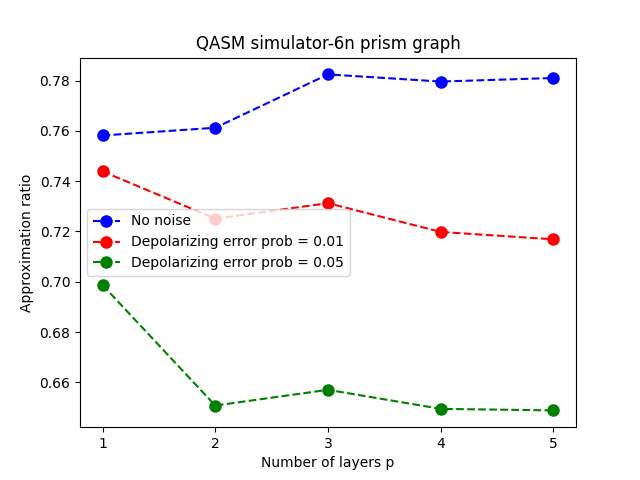
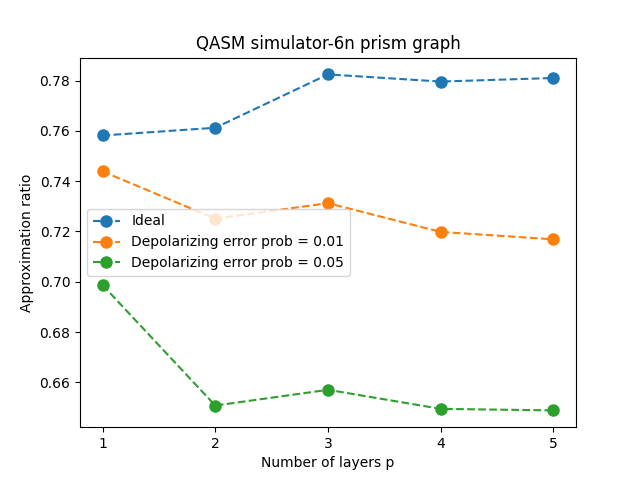
Layer by layer optimization working :)

diff --git a/plots.py b/plots.py
@@ -6,12 +6,16 @@ approx_ratio = [0.924825, 0.9994, 0.999375, 0.989525, 0.991425] # No noise
 # [2.01177997 2.33217192 0.83523549 5.95600807 2.72784627] [1.65157151 6.27857961 1.05144207 3.10821409 1.4194117 ]
 approx_ratio_noisy2 = [0.904375, 0.9153, 0.8903, 0.872525, 0.867025] # Depolarizing error 0.01
 approx_ratio_noisy = [0.837725, 0.77485, 0.784075, 0.7585, 0.757125] # Depolarizing error 0.05
-approx_ratio_fakevigo = [0.889739990234375, 0.87359619140625, 0.8653564453125]
+approx_ratio_fakevigo = [0.889739990234375, 0.87359619140625, 0.8653564453125, 0.84576416015625,0.845123291015625]
+layer_by_layer_fakevigo = [0.89141845703125, 0.830657958984375, 0.748077392578125, 0.805877685546875, 0.784576416015625]
+layer_by_layer_ideal =[0.926575, 0.9343, 0.78225, 0.9582, 0.957125]
 
-plt.plot(range(1,len(approx_ratio)+1), approx_ratio, 'o--', markersize=8, label='Ideal')
-plt.plot(range(1,len(approx_ratio_noisy2)+1), approx_ratio_noisy2, 'o--', markersize=8, label='Depolarizing error prob = 0.01')
-plt.plot(range(1,len(approx_ratio_noisy)+1), approx_ratio_noisy, 'o--', markersize=8, label='Depolarizing error prob = 0.05')
-plt.plot(range(1,len(approx_ratio_fakevigo)+1), approx_ratio_fakevigo, 'o--', markersize=8, label='FakeVigo simulator')
+plt.plot(range(1,len(approx_ratio)+1), approx_ratio, 'o--', markersize=8, label='QASM ideal')
+#plt.plot(range(1,len(approx_ratio_noisy2)+1), approx_ratio_noisy2, 'o--', markersize=8, label='Depolarizing error prob = 0.01')
+#plt.plot(range(1,len(approx_ratio_noisy)+1), approx_ratio_noisy, 'o--', markersize=8, label='Depolarizing error prob = 0.05')
+plt.plot(range(1,len(approx_ratio_fakevigo)+1), approx_ratio_fakevigo, 'o--', markersize=8, label='FakeVigo')
+plt.plot(range(1,len(layer_by_layer_fakevigo)+1), layer_by_layer_fakevigo, 'o--', markersize=8, label='FakeVigo- layer by layer')
+plt.plot(range(1,len(layer_by_layer_ideal)+1), layer_by_layer_ideal, 'o--', markersize=8, label='QASM ideal- layer by layer')
 
 plt.xticks(range(1,len(approx_ratio)+1))
 plt.xlabel('Number of layers p')
@@ -62,14 +66,17 @@ plt.savefig('Erdos graph with qasm')
 plt.show()
 
 
-# Number of calls to the circuit when running it in fakevigo 
-calls = [20,72,275,715]
+# Number of iterations of the optimizer to the circuit when running it in fakevigo 
+calls = [20,72,275,523,852] # maxiter = 999
+calls_layer_by_layer = [27,24,21,28,17]
 plt.close
 plt.plot(range(1,len(calls)+1), calls, 'o--', markersize=8)
+plt.plot(range(1,len(calls_layer_by_layer)+1), calls_layer_by_layer, 'o--', markersize=8)
 plt.xticks(range(1,len(approx_ratio)+1))
 plt.xlabel('Number of layers p')
-plt.ylabel('Calls')
+plt.ylabel('Iterations')
 plt.legend()
-plt.title('Calls to the quantum circuit in FakeVigo')
+plt.title('Iterations of the optimizer in FakeVigo')
 plt.savefig('Calls')
 plt.show()
+

diff --git a/layer_by_layer_qasm_simulation.py b/layer_by_layer_qasm_simulation.py
@@ -23,22 +23,22 @@ from scipy.optimize import minimize, differential_evolution
 from qiskit import Aer
 from qiskit.providers.aer.noise import NoiseModel, QuantumError, thermal_relaxation_error, depolarizing_error
 from qiskit.test.mock import FakeVigo
- 
+
 # Choose your fighter
 G = graphs.fournodes_3reg_graph()
 
 # Choose the arena
-#backend = QasmSimulator()
-backend = QasmSimulator.from_backend(FakeVigo())
-shots = 8192
+backend = QasmSimulator()
+#backend = QasmSimulator.from_backend(FakeVigo())
+shots = 10000
 
 # Choose the number of rounds
 p = 1
 
 # In case we don't want a noise model:
 noise_model = None
-
-prev_gamma = []]
+ 
+prev_gamma = []
 prev_beta = []
 cost_list = []
 approx_ratio_list = []
@@ -61,10 +61,9 @@ for p in range(1,p_max + 1):
     # max_expect_value = minimize(expect_value_function, x0=np.random.randn(2),args=(backend,G,shots,p,None), bounds = bounds, options={'disp': True}, method = 'SLQP')
 
     # Differential evolution optimizer:
-    max_expect_value = differential_evolution(expect_value_function,args=(prev_gamma,prev_beta,backend,G,shots,p,noise_model), bounds=bounds, disp = True)
-
-    optimal_gamma, optimal_beta = max_expect_value['x'][:p], max_expect_value['x'][p:]
-    counts = execute_circuit(G, optimal_gamma, optimal_beta, backend, shots, p, noise_model)
+    max_expect_value = differential_evolution(expect_value_function,args=(prev_gamma,prev_beta,backend,G,shots,p,noise_model), bounds=bounds, maxiter = 10000, disp = True)
+    optimal_gamma, optimal_beta = max_expect_value['x'][0], max_expect_value['x'][1]
+    counts = execute_circuit(G, optimal_gamma, optimal_beta, prev_gamma, prev_beta, backend, shots, p, noise_model)
     solution, solution_cost = get_solution(counts, G)
     avr_cost = -max_expect_value.get('fun')
     approx_ratio = avr_cost/solution_cost # Careful! This approximation ratio is computed assuming the algorithm is able to find
@@ -87,7 +86,7 @@ for p in range(1,p_max + 1):
 
 
 #np.save('saved_cost_list', cost_list)
-plt.plot(range(1,p_max), cost_list)
+plt.plot(range(1,p_max+1), cost_list)
 plt.show()
 #plt.savefig('Cost list')
 

diff --git a/qasm_simulation.py b/qasm_simulation.py
@@ -23,16 +23,14 @@ from scipy.optimize import minimize, differential_evolution
 from qiskit import Aer
 from qiskit.providers.aer.noise import NoiseModel, QuantumError, thermal_relaxation_error, depolarizing_error
 from qiskit.test.mock import FakeVigo
- 
+
 # Choose your fighter
 G = graphs.fournodes_3reg_graph()
 
 # Choose the arena
-#backend = QasmSimulator()
+# backend = QasmSimulator()
 backend = QasmSimulator.from_backend(FakeVigo())
 shots = 8192
-
-number_of_calls = 0
 
 # Choose the number of rounds
 p = 1
@@ -43,7 +41,7 @@ noise_model = None
 cost_list = []
 approx_ratio_list = []
 p_max = 5
-for p in range(1,p_max + 1):
+for p in range(5,p_max + 1):
 
     # Initial values
     x0 = np.random.randn(2,p)
@@ -61,7 +59,7 @@ for p in range(1,p_max + 1):
     # max_expect_value = minimize(expect_value_function, x0=np.random.randn(2),args=(backend,G,shots,p,None), bounds = bounds, options={'disp': True}, method = 'SLQP')
 
     # Differential evolution optimizer:
-    max_expect_value = differential_evolution(expect_value_function,args=(backend,G,shots,p,noise_model), bounds=bounds, disp = True)
+    max_expect_value = differential_evolution(expect_value_function,args=(backend,G,shots,p,noise_model), bounds=bounds, disp = True, maxiter=10000, workers=-1)
 
     optimal_gamma, optimal_beta = max_expect_value['x'][:p], max_expect_value['x'][p:]
     counts = execute_circuit(G, optimal_gamma, optimal_beta, backend, shots, p, noise_model)
@@ -83,7 +81,6 @@ for p in range(1,p_max + 1):
     #plot_histogram(counts,figsize = (8,6),bar_labels = False)
     #plt.show()
 
-    
 
 #np.save('saved_cost_list', cost_list)
 plt.plot(range(1,p_max), cost_list)
@@ -113,8 +110,8 @@ noise_model.add_all_qubit_quantum_error(single_qubit_error, ['u1', 'u2', 'u3'])
 noise_model.add_all_qubit_quantum_error(two_qubits_error, ['Cx'])
 '''
 
-
 ''' 
+
 # Noise model: Depolarizing noise--> working
 error1 = depolarizing_error(0.05, 1) #single qubit gates
 error2 = depolarizing_error(0.05, 2) #two qubit gates

diff --git a/layer_by_layer_qasm_functions.py b/layer_by_layer_qasm_functions.py
@@ -3,9 +3,12 @@ from qiskit import execute, QuantumCircuit
 def circuit_ansatz(G, gamma, beta, prev_gamma, prev_beta, p): #gamma and beta are p-arrays or lists
     n = len(G.nodes())
     E = G.edges()
-    gamma = prev_gamma.append(gamma)
-    beta = prev_beta.append(beta)
-
+    temp_gamma = prev_gamma[:]
+    temp_gamma.append(gamma)
+    gamma = temp_gamma[:]
+    temp_beta = prev_beta[:]
+    temp_beta.append(beta)
+    beta = temp_beta[:]
     QAOA = QuantumCircuit(n, n)
     for i in range(p):
         QAOA.h(range(n))
@@ -28,7 +31,7 @@ def circuit_ansatz(G, gamma, beta, prev_gamma, prev_beta, p): #gamma and beta ar
 
 def execute_circuit(G, gamma, beta, prev_gamma, prev_beta, backend, shots, p, noise_model): #returns an instance of the Results class
 
-    QAOA = circuit_ansatz(G, gamma, beta, prev_gamma=prev_gamma, prev_beta=prev_beta, p=p)
+    QAOA = circuit_ansatz(G, gamma, beta, prev_gamma, prev_beta, p)
 
     if noise_model== None:
         job = execute(QAOA, backend=backend, shots=shots)

diff --git a/qasm_functions.py b/qasm_functions.py
@@ -1,6 +1,6 @@
 from qiskit import execute, QuantumCircuit
 
-def circuit_ansatz(G, gamma, beta, p, prev_gamma, prev_beta): #gamma and beta are p-arrays or lists
+def circuit_ansatz(G, gamma, beta, p): #gamma and beta are p-arrays or lists
     n = len(G.nodes())
     E = G.edges()
 
